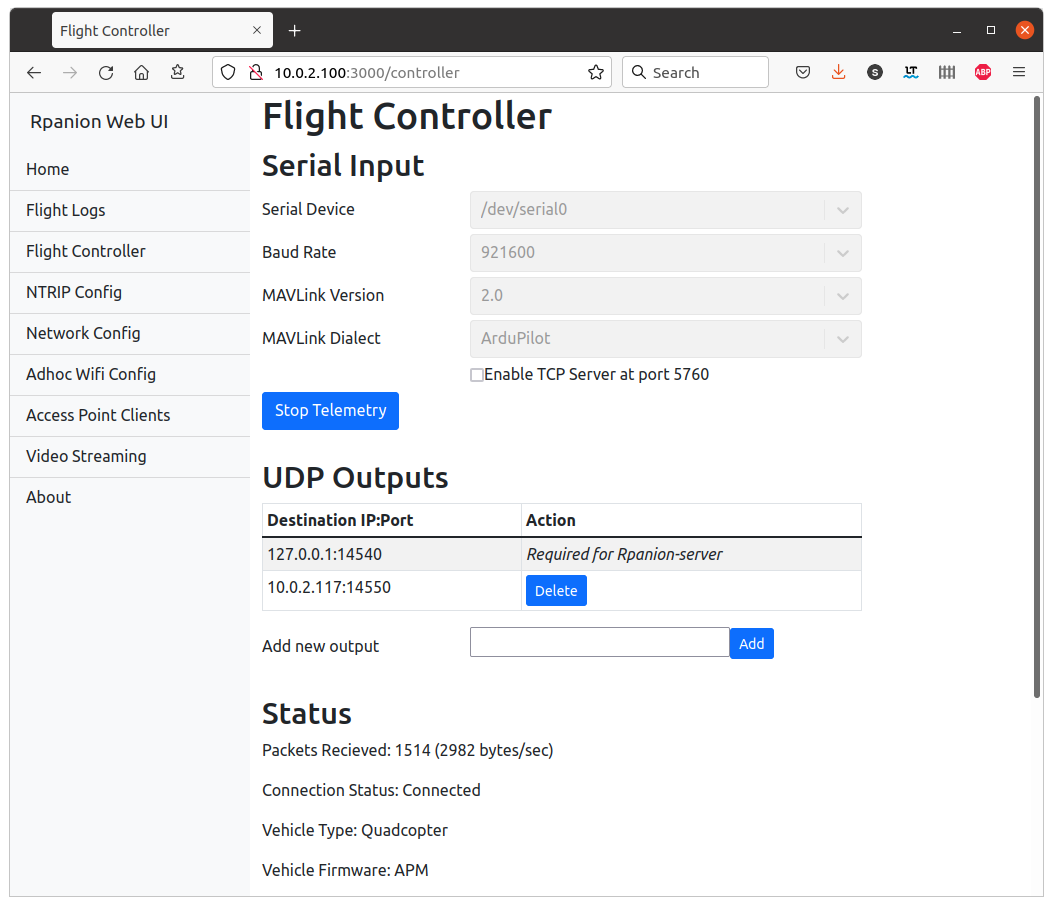
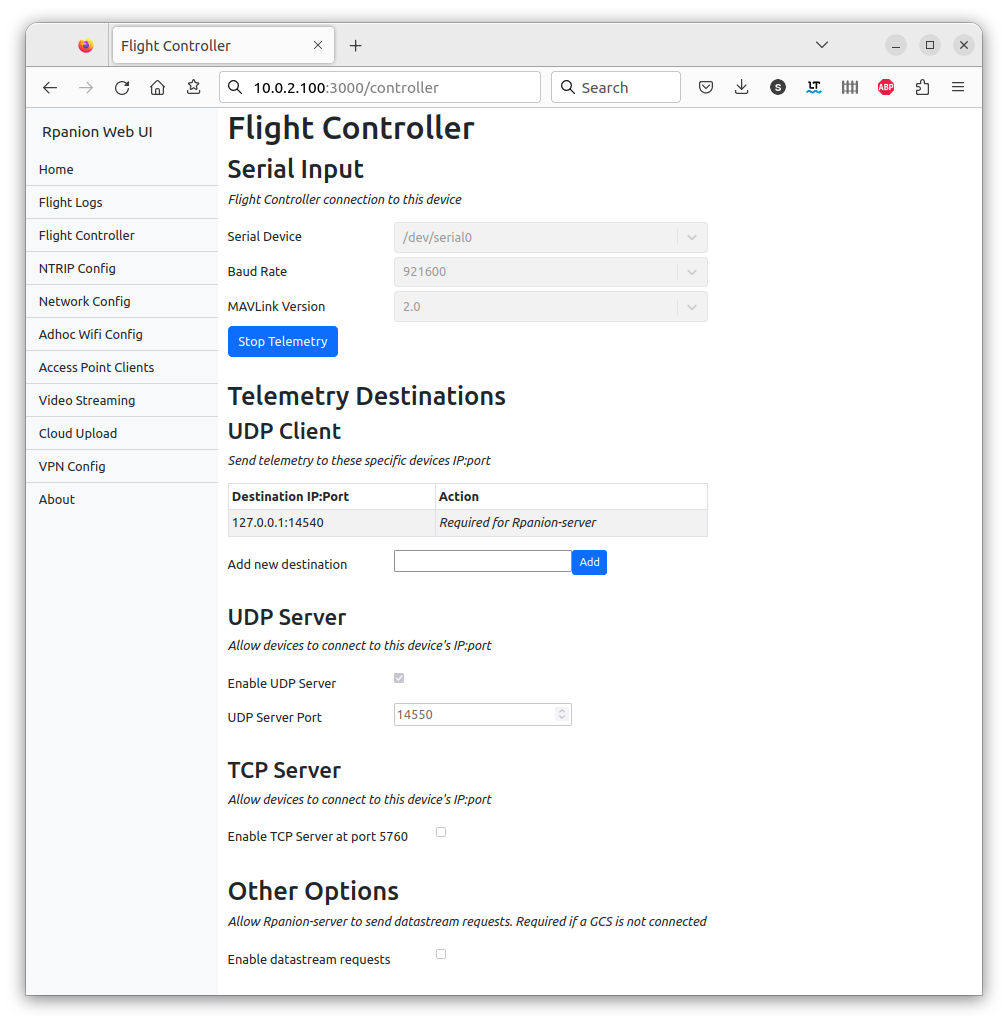
0.10.0

Changed region(s): [[0.0, 0.0, 1.0, 0.989], [0.6766, 0.6799, 0.7381, 0.7417]]

diff --git a/CHANGELOG.md b/CHANGELOG.md
@@ -1,5 +1,21 @@
 ### Changelog
 
+#### [v0.10.0](https://github.com/stephendade/Rpanion-server/compare/v0.9.0...v0.10.0)
+ - Add support for nodejs 18 and 20
+ - Video: Use libcamera on Raspberry Pi
+ - Video: Add support for 2nd CSI port on Raspberry Pi
+ - Video: Hardware x264 encoding for USB cameras
+ - Video: Reduce x264 latency
+ - Video: Add support for Jetson CSI cameras
+ - FlightController: Add option to send datastream requests
+ - UI: More consistency
+ - Network: Better Wireguard status
+ - Network: Add refresh button to Wifi network list
+ - Network: Various bug fixes in showing connection details
+ - Add (limited) support for Ubuntu22 on Raspberry Pi. Video not supported.
+ - Added support for Le Potato SBC
+ - FlightController: Added support for alterntate serial ports on Raspberry Pi 4
+
 #### [v0.9.0](https://github.com/stephendade/Rpanion-server/compare/v0.8.0...v0.9.0)
 
 - Upgrade from nodejs v14 to v16
